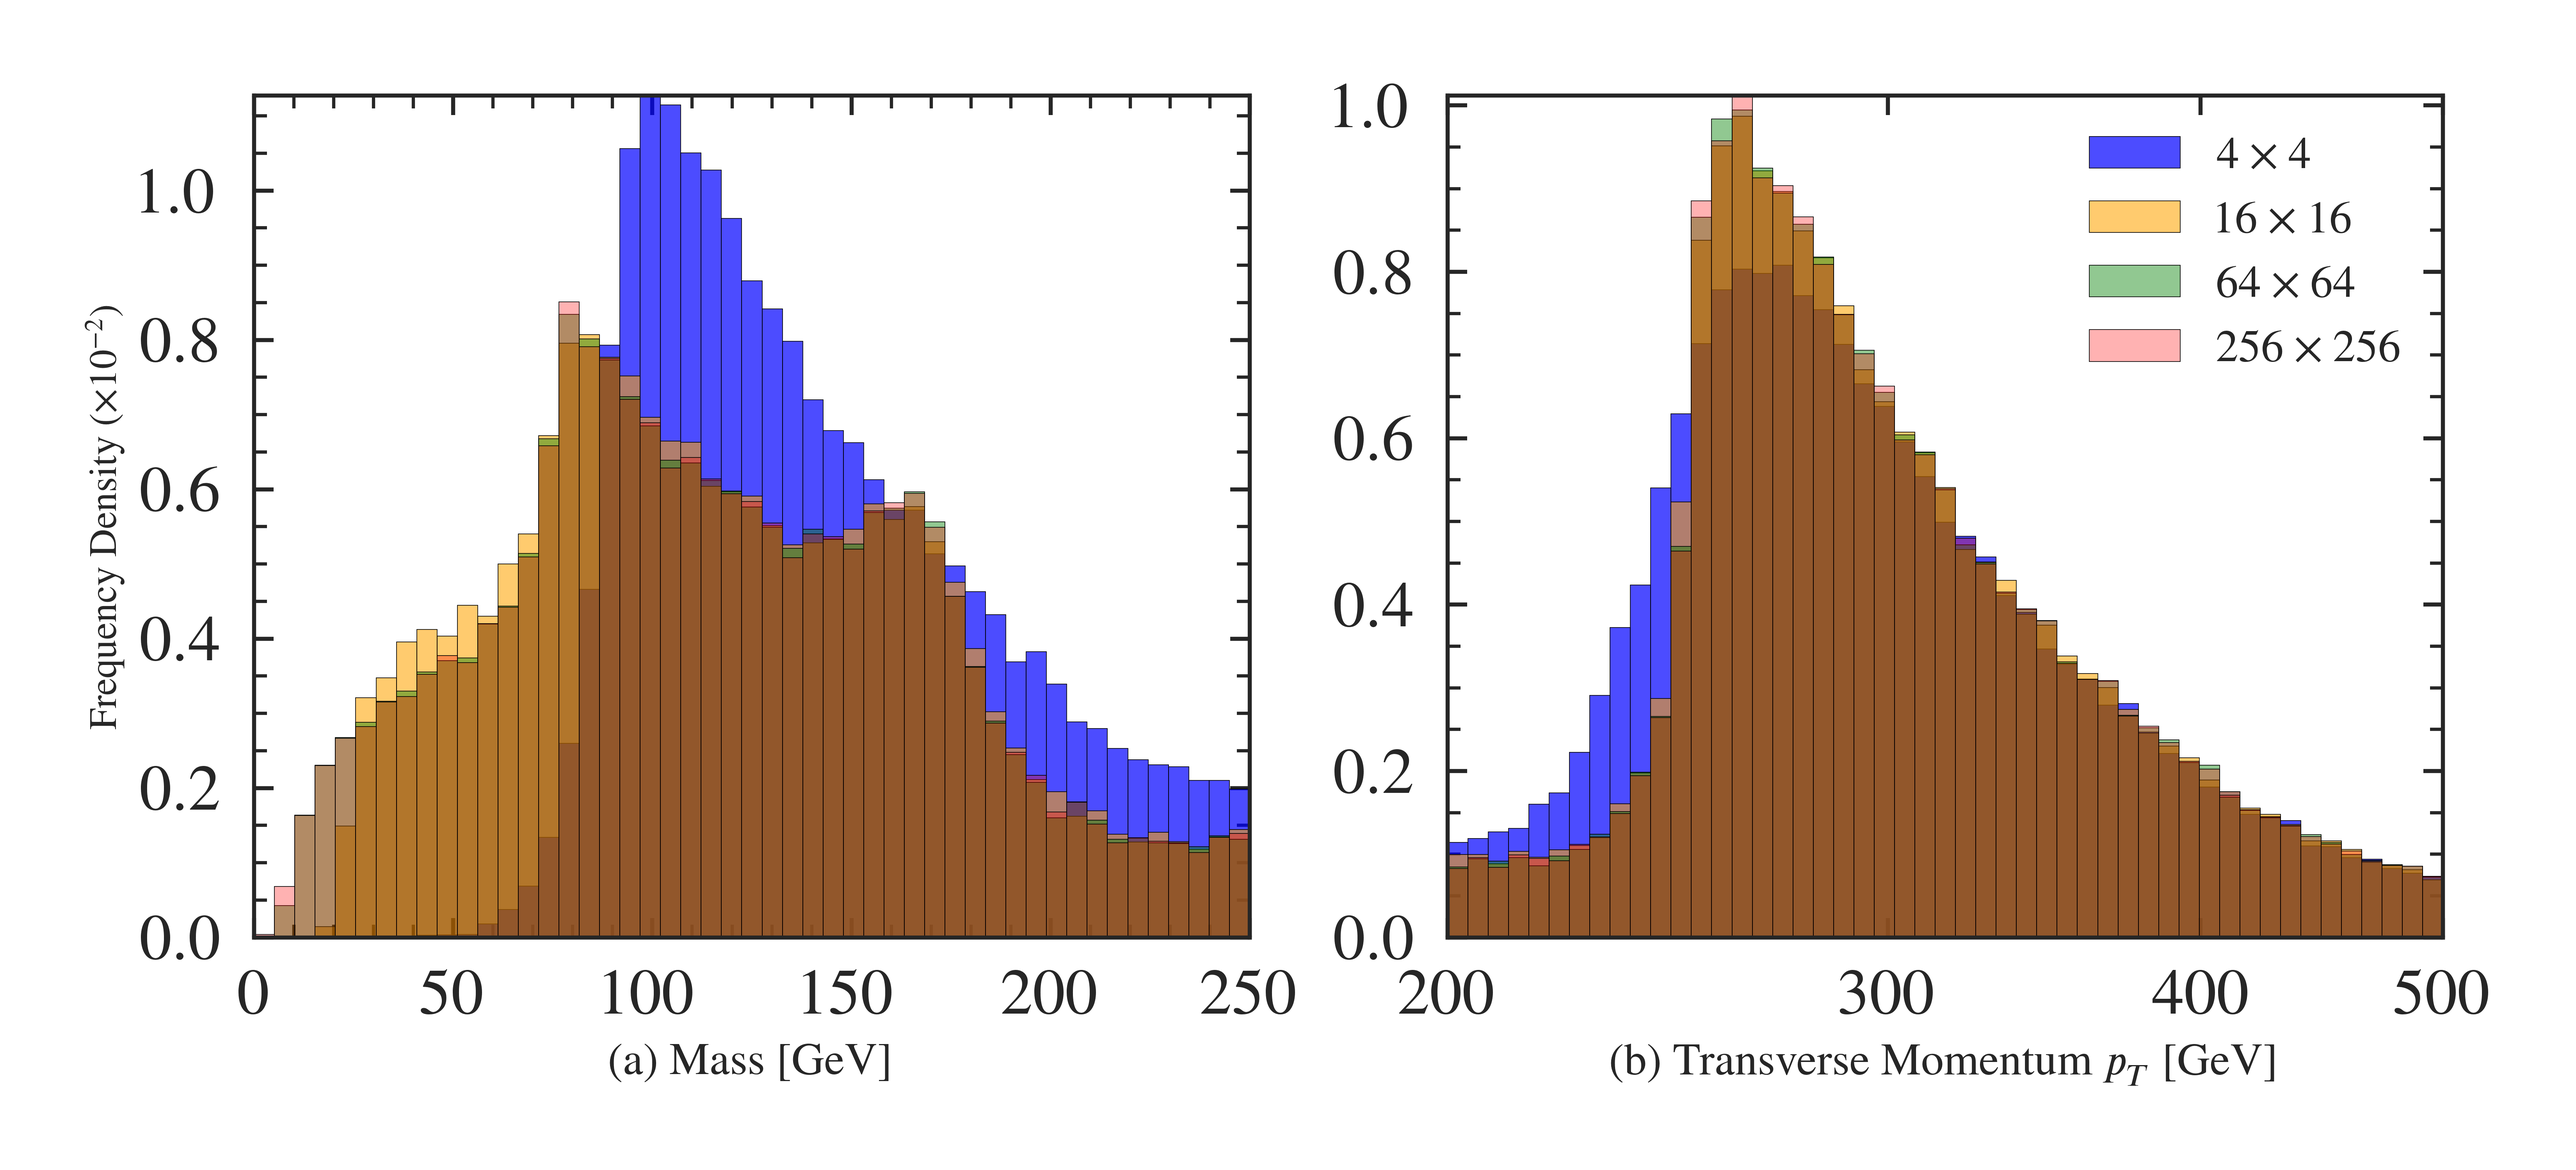
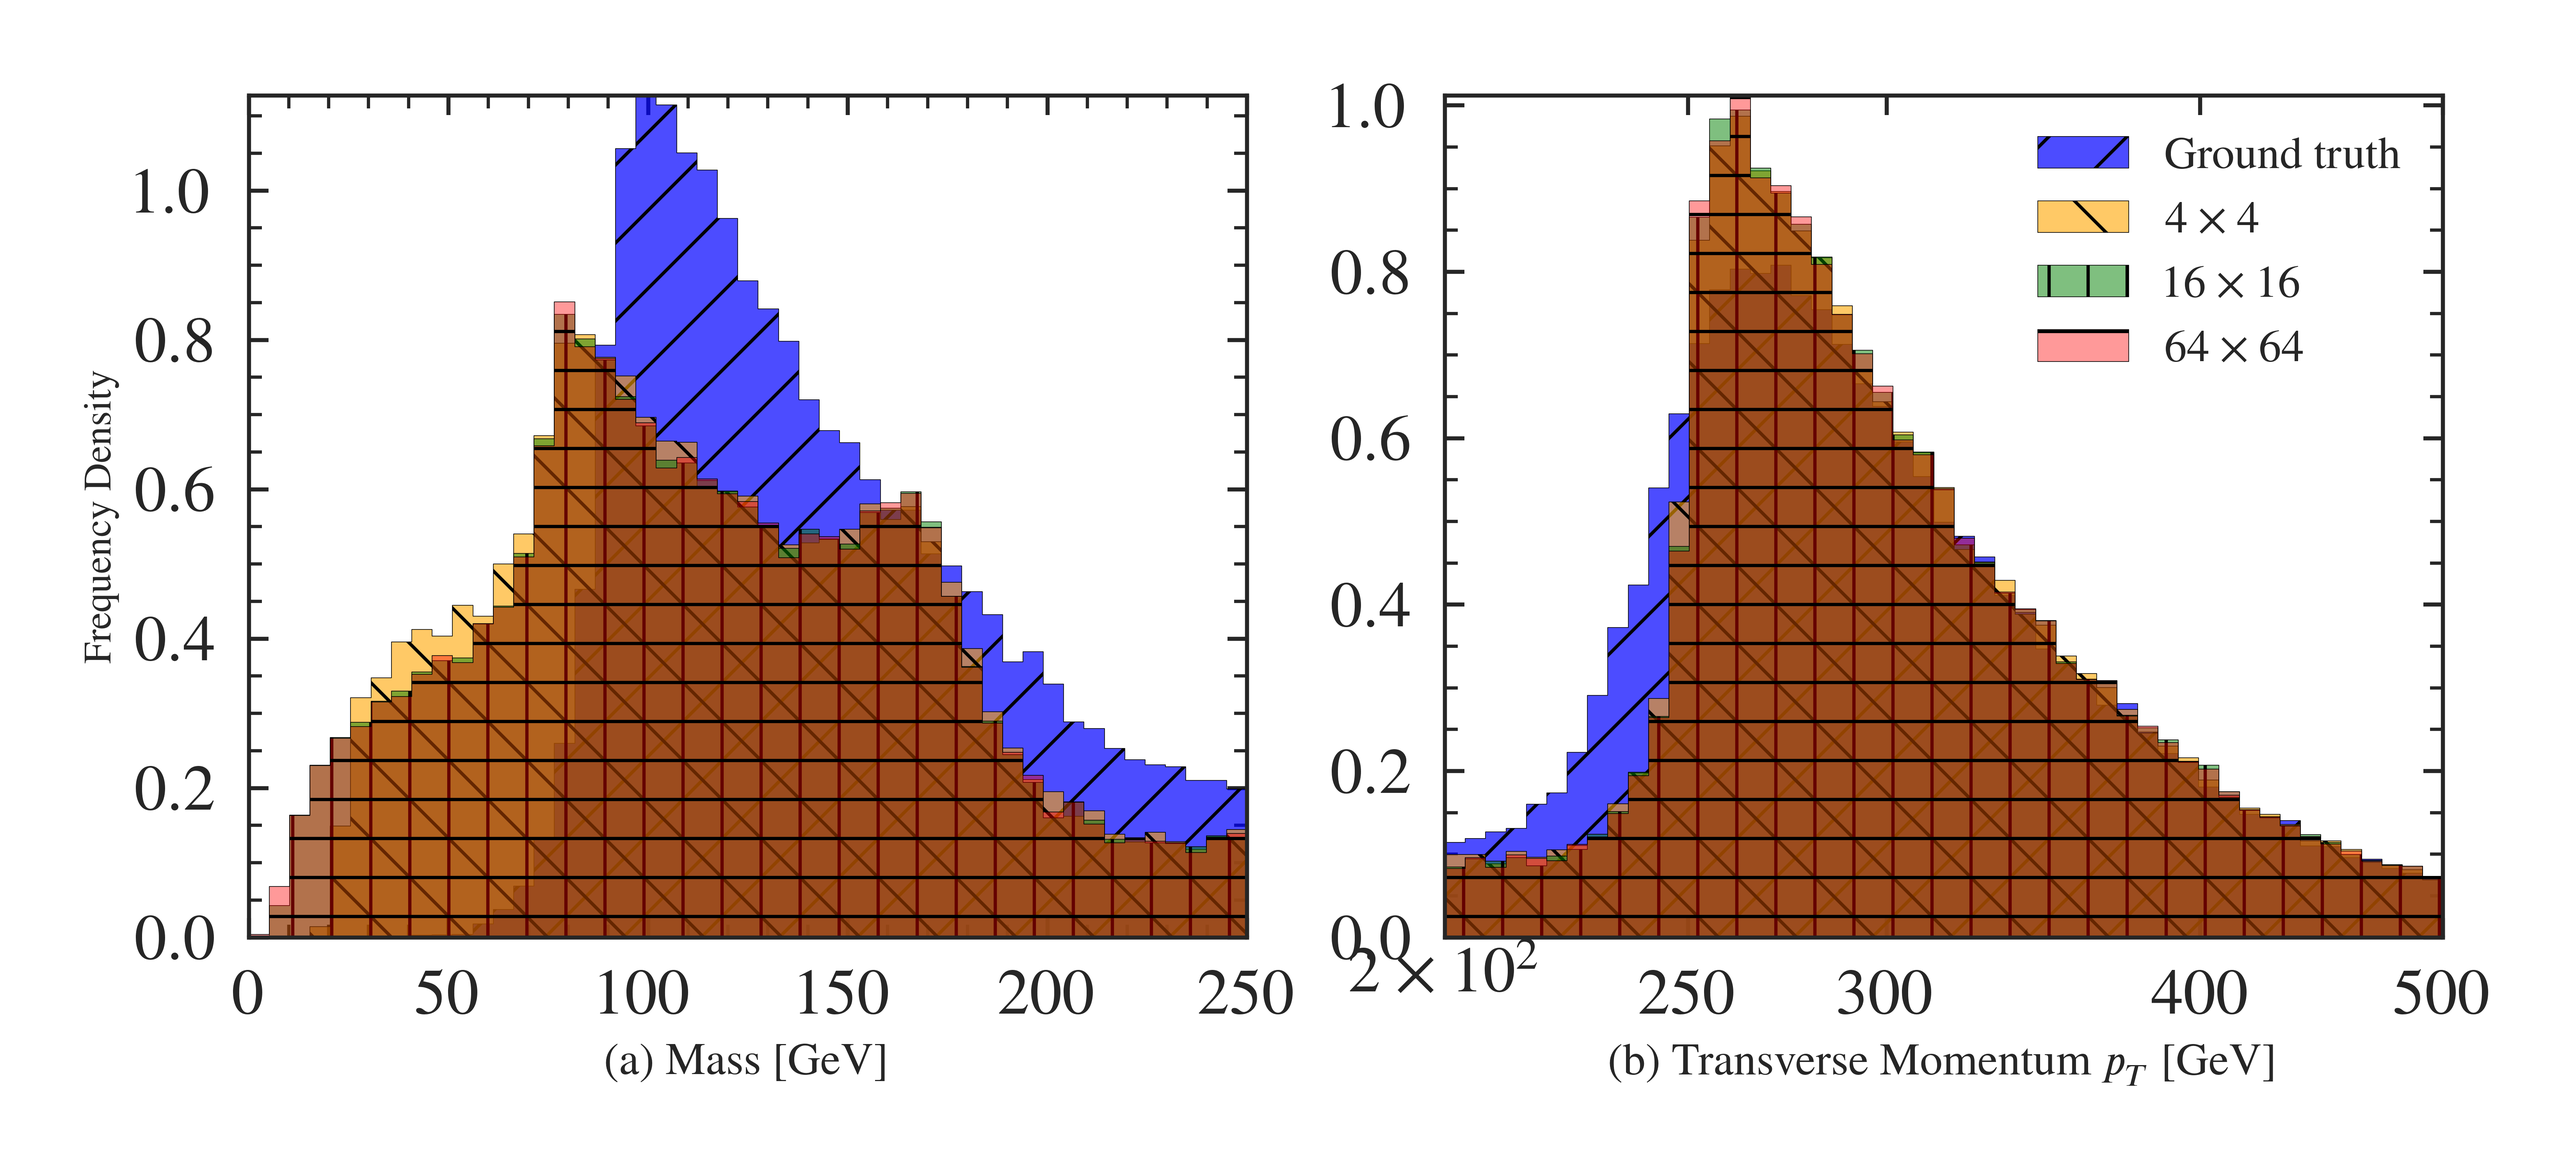
Do same for debin.

diff --git a/DDPMLHC/generate_plots/overlaid_debin.py b/DDPMLHC/generate_plots/overlaid_debin.py
@@ -5,67 +5,68 @@ import matplotlib.pyplot as plt
 import seaborn as sb
 from pathlib import Path
 from DDPMLHC.config import *
+from DDPMLHC.generate_plots.overlaid_general import plot_combined_histograms_with_overlay
 
 mpl.rcParams.update(MPL_GLOBAL_PARAMS)
 
-def plot_combined_histograms_with_overlay_debin(hist_data_list, bin_values, save_path, pure=False):
-    colors = ['blue', 'orange', 'green', 'red', 'purple'][:len(bin_values) + (1 if pure else 0)]
-    alphas = np.linspace(0.7, 0.3, len(bin_values) + (1 if pure else 0))
+# def plot_combined_histograms_with_overlay_debin(hist_data_list, bin_values, save_path, pure=False):
+#     colors = ['blue', 'orange', 'green', 'red', 'purple'][:len(bin_values) + (1 if pure else 0)]
+#     alphas = np.linspace(0.7, 0.3, len(bin_values) + (1 if pure else 0))
     
-    fig, axes = plt.subplots(1, 2, figsize=(11, 5))
-    first_dataset = hist_data_list[0]
+#     fig, axes = plt.subplots(1, 2, figsize=(11, 5))
+#     first_dataset = hist_data_list[0]
     
-    for idx, ax in enumerate(axes):
-        entry_ref = first_dataset[idx]
-        plot_params_ref = entry_ref.get("plot_params", {}).copy()
+#     for idx, ax in enumerate(axes):
+#         entry_ref = first_dataset[idx]
+#         plot_params_ref = entry_ref.get("plot_params", {}).copy()
         
-        xlog = plot_params_ref.pop("xlog", False)
-        x_min = plot_params_ref.pop("x_min", None)
-        x_max = plot_params_ref.pop("x_max", None)
-        bins = plot_params_ref.pop("bins", 50)
+#         xlog = plot_params_ref.pop("xlog", False)
+#         x_min = plot_params_ref.pop("x_min", None)
+#         x_max = plot_params_ref.pop("x_max", None)
+#         bins = plot_params_ref.pop("bins", 50)
         
-        if xlog:
-            bin_edges = np.logspace(np.log10(x_min or 1), np.log10(x_max), bins)
-        else:
-            bin_edges = np.linspace(x_min, x_max, bins)
+#         if xlog:
+#             bin_edges = np.logspace(np.log10(x_min or 1), np.log10(x_max), bins)
+#         else:
+#             bin_edges = np.linspace(x_min, x_max, bins)
         
-        for i, (hist_data, color, alpha) in enumerate(zip(hist_data_list, colors, alphas)):
-            entry = hist_data[idx]
+#         for i, (hist_data, color, alpha) in enumerate(zip(hist_data_list, colors, alphas)):
+#             entry = hist_data[idx]
             
-            if i == 0 and pure:
-                label = "Pre-Grid"
-            else:
-                bin_idx = i - 1 if pure else i
-                label = f"${bin_values[bin_idx]} \\times {bin_values[bin_idx]}$"
+#             if i == 0 and pure:
+#                 label = "Pre-Grid"
+#             else:
+#                 bin_idx = i - 1 if pure else i
+#                 label = f"${bin_values[bin_idx]} \\times {bin_values[bin_idx]}$"
             
-            sb.histplot(entry["data"], ax=ax, stat="density",
-                       bins=bin_edges, color=color, 
-                       label=label, alpha=alpha,
-                       edgecolor='black', linewidth=0.2)
+#             sb.histplot(entry["data"], ax=ax, stat="density",
+#                        bins=bin_edges, color=color, 
+#                        label=label, alpha=alpha,
+#                        edgecolor='black', linewidth=0.2)
         
-        if xlog:
-            ax.set_xscale("log")
-            if idx == 1:  # For p_T plot
-                ax.xaxis.set_major_formatter(mpl.ticker.ScalarFormatter())
-                ax.xaxis.set_major_locator(mpl.ticker.LogLocator(base=10.0, numticks=5))
-                ax.set_xticks([200, 300, 400, 500, 600, 700])
+#         if xlog:
+#             ax.set_xscale("log")
+#             if idx == 1:  # For p_T plot
+#                 ax.xaxis.set_major_formatter(mpl.ticker.ScalarFormatter())
+#                 ax.xaxis.set_major_locator(mpl.ticker.LogLocator(base=10.0, numticks=5))
+#                 ax.set_xticks([200, 300, 400, 500, 600, 700])
                 
-        ax.set_xlim(left=x_min, right=x_max)
-        ax.ticklabel_format(axis="y", style="sci", scilimits=(0,0), useMathText=True)
-        ax.yaxis.offsetText.set_visible(False)
-        ax.set_xlabel(entry_ref["name"], fontsize=14)
+#         ax.set_xlim(left=x_min, right=x_max)
+#         ax.ticklabel_format(axis="y", style="sci", scilimits=(0,0), useMathText=True)
+#         ax.yaxis.offsetText.set_visible(False)
+#         ax.set_xlabel(entry_ref["name"], fontsize=14)
         
-        if idx == 0:
-            ax.set_ylabel("Frequency Density ($\\times 10^{-2}$)", fontsize=12)
-        else:
-            ax.set_ylabel("")
-            ax.legend(fontsize=14, frameon=False)
+#         if idx == 0:
+#             ax.set_ylabel("Frequency Density ($\\times 10^{-2}$)", fontsize=12)
+#         else:
+#             ax.set_ylabel("")
+#             ax.legend(fontsize=14, frameon=False)
     
-    plt.tight_layout()
-    filename = f"overlaid_pure_bins{'_'.join(map(str, bin_values))}{'_incNoGrid' if pure else ''}"
-    plt.savefig(f"{save_path}/{filename}", dpi=600)
-    plt.close(fig)
-    print(f"Done {filename}.")
+#     plt.tight_layout()
+    
+#     plt.savefig(f"{save_path}/{filename}", dpi=600)
+#     plt.close(fig)
+#     print(f"Done {filename}.")
 
 def create_overlay_plots_debin(bin_values, mass_max=250, save_path=None, mu=0, pure=False, pure_path=None):
     """
@@ -77,6 +78,7 @@ def create_overlay_plots_debin(bin_values, mass_max=250, save_path=None, mu=0, p
         raise ValueError("Maximum 5 bin values supported")
     
     save_path = save_path or f"{CWD}/data/3-grid/mu0/overlaid"
+    filename = f"overlaid_pure_bins{'_'.join(map(str, bin_values))}{'_incNoGrid' if pure else ''}"
     Path(save_path).mkdir(parents=True, exist_ok=True)
     
     # Define hist_params at the beginning
@@ -117,9 +119,10 @@ def create_overlay_plots_debin(bin_values, mass_max=250, save_path=None, mu=0, p
         } for param in hist_params]
         list_of_params_all.append(dataset)
     
-    plot_combined_histograms_with_overlay_debin(
+    labels = ["Ground truth"] + [ f"${bin}\\times {bin}$" for bin in bin_values ]
+    
+    plot_combined_histograms_with_overlay(
         list_of_params_all, 
-        bin_values, 
-        save_path,
-        pure=pure
+        labels, 
+        save_path = f"{save_path}/{filename}",
     )

diff --git a/DDPMLHC/main_rs.py b/DDPMLHC/main_rs.py
@@ -56,10 +56,10 @@ mpl.rcParams.update(MPL_GLOBAL_PARAMS)
 
 #################################################################################
 
-create_overlay_plots([0, 5, 10, 15, 30])
-create_overlay_plots([0, 10, 30, 50])
-create_overlay_plots([0, 25, 50, 75, 100], mass_max=300)
-create_overlay_plots([0, 50, 100, 150, 200], mass_max=400)
+# create_overlay_plots([0, 5, 10, 15, 30])
+# create_overlay_plots([0, 10, 30, 50])
+# create_overlay_plots([0, 25, 50, 75, 100], mass_max=300)
+# create_overlay_plots([0, 50, 100, 150, 200], mass_max=400)
 
 #################################################################################
 
@@ -247,14 +247,14 @@ create_overlay_plots_debin([2,4,8,256], pure=True)
 
 #################################################################################
 
-files = [
-    f"{CWD}/data/2-intermediate/noisy_mu0_event_level.csv",
-    f"{CWD}/data/3-grid/mu0/noisy_mu{0}_event_level_from_grid{64}.csv",
-    f"{CWD}/data/2-intermediate/noisy_mu200_event_level.csv",
-    f"{CWD}/data/4-reconstruction/beta001/reconstructed_mu200_event_level_from_grid64_Unet64.csv",
-]
-labels = ["Original", "Best case", "Noisy", "Denoised"]
-create_overlay_plots_general(files, labels, mass_max=350)
+# files = [
+#     f"{CWD}/data/2-intermediate/noisy_mu0_event_level.csv",
+#     f"{CWD}/data/3-grid/mu0/noisy_mu{0}_event_level_from_grid{64}.csv",
+#     f"{CWD}/data/2-intermediate/noisy_mu200_event_level.csv",
+#     f"{CWD}/data/4-reconstruction/beta001/reconstructed_mu200_event_level_from_grid64_Unet64.csv",
+# ]
+# labels = ["Original", "Best case", "Noisy", "Denoised"]
+# create_overlay_plots_general(files, labels, mass_max=350)
 
 #################################################################################
 

diff --git a/DDPMLHC/generate_plots/overlaid_general.py b/DDPMLHC/generate_plots/overlaid_general.py
@@ -110,4 +110,3 @@ def create_overlay_plots_general(file_paths, labels, mass_max=250, save_path=Non
     } for param in hist_params] for path in file_paths]
     
     plot_combined_histograms_with_overlay(list_of_params_all, labels, save_path, FOOBAR=True, stat="count")
-
